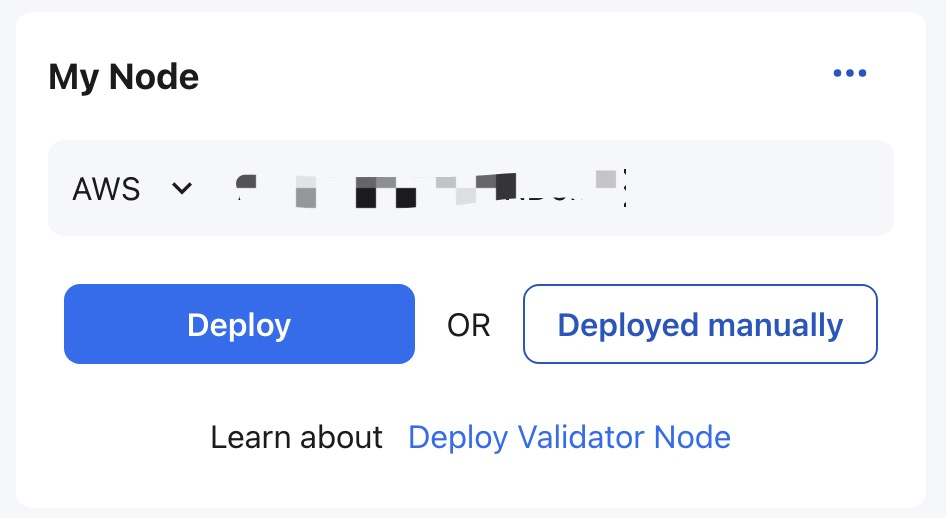
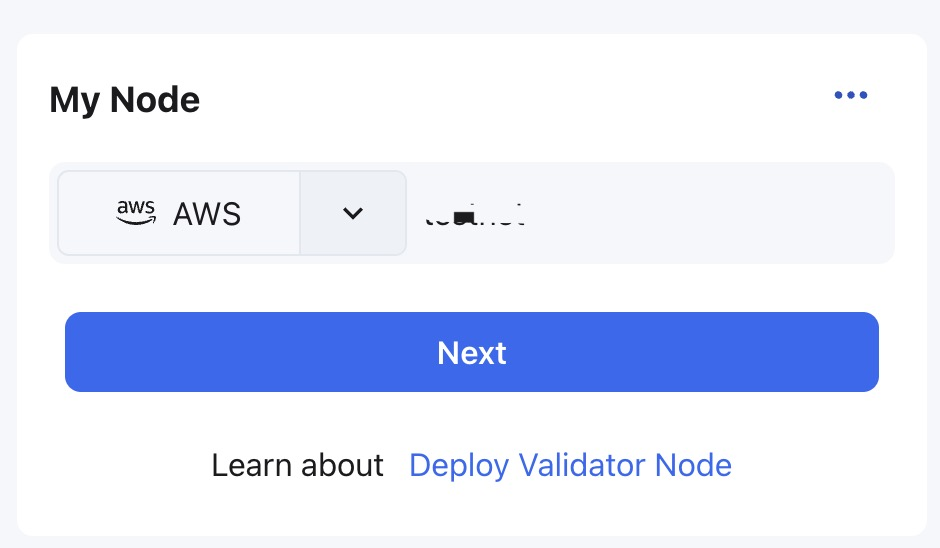
support GCP

diff --git a/src/maintain/validator-deploy-gcp.md b/src/maintain/validator-deploy-gcp.md
@@ -1,0 +1,48 @@
+## Automatic deployment with GCP
+
+### Before you begin
+
+1. [Create a Google Account](https://support.google.com/accounts/answer/27441?hl=en)
+2. [Create a Google Cloud project](https://cloud.google.com/resource-manager/docs/creating-managing-projects).
+3. [Create a Billing account](https://cloud.google.com/billing/docs/how-to/manage-billing-account) and [enable billing for the Cloud project](https://cloud.google.com/billing/docs/how-to/modify-project).
+4. [Enable the Compute Engine API](https://console.cloud.google.com/apis/api/compute.googleapis.com/overview).
+
+### Deploy
+
+Log in to the Octopus Network [mainnet](https://mainnet.oct.network) with the NEAR account created in [Generate Validator Account](./validator-generate-keys.md).
+
+![validator login](../images/maintain/validator_login.jpg)
+
+Click the `Appchains` and select the appchain which would like to be a validator, click it to open the appchain page, then perform the following operations:
+
+1. In the **My Node** area of the appchain page, select `GCP` and login with your `Google Account`, 
+
+![gcp login](../images/maintain/validator_gcp_login.jpg)
+
+After login, click `Next` and select the Octopus Network can access and click `Continue`;
+
+![gcp access](../images/maintain/validator_gcp_access.jpg)
+
+2. The deployed GCP instance configuration information and approximate cost will be displayed in the **My Node** region. After confirmation, select the project and select the deployment area of the instance in the `Deploy region` drop-down box, then click `Confirm`;
+
+![gcp confirm](../images/maintain/validator_gcp_confirm.jpg)
+
+3. In the **My Node** area, the node status is `Applying` which means the automatic deployment service is deploying the node.
+
+![validator applying](../images/maintain/validator_gcp_applying.jpg)
+
+Please wait for about 3~5 minutes, the node status will change to `Syncing` which means the validator node is synchronizing the block data of the appchain. The earlier the appchain is online, the longer the node synchronization time will be. please wait patiently.
+
+![validator syncing](../images/maintain/validator_gcp_syncing.jpg)
+
+To check the synchronization of nodes, please refer to [Monitor Node](./monitor-node.md).
+
+After the node synchronization, the status in the **My Node** area will change to `Running`.
+
+![validator running](../images/maintain/validator_gcp_running.jpg)
+
+For the automatically deployed validator node, in the **My Node** area, the validator can click the icon on the right of the `Instance Status` field to check the instance status information (such as CPU, hard disk, memory) of the running validator node instance.
+
+![validator instance status](../images/maintain/validator_instance_status.jpg)
+
+At the `Running` status, the validator can proceed to the next step [register validator](./validator-register.md).

diff --git a/src/cn/maintain/validator-register.md b/src/cn/maintain/validator-register.md
@@ -18,27 +18,35 @@
 
 注册成功后，请等待大约1～2分钟，验证人的应用链账户中会收到 1 个应用链的代币，用于进行下一步的操作。
 
-### 设置 Session Key
+### 设置 Session Key - 自动部署验证节点
 
 **注意**，确保验证节点已完成链数据的同步，并且验证人的应用链账户中已收到应用链的代币。
 
-在应用链页面 **My Node** 区域，点击`···`，选择`Set Session Key`，在弹出页面中，选择上一步注册中填写的应用链账户，使用自动部署服务，验证人只需点击`Set`。
+使用自动部署验证节点服务，验证人只需在应用链页面 **My Node** 区域，点击`···`，选择`Set Session Key`，在弹出页面中，选择上一步注册中填写的应用链账户，点击`Set`。
 
 ![validator set sessionkey](../../images/maintain/validator_set_sessionkey.jpg)
 
 ![validator set sessionkey](../../images/maintain/validator_set_sessionkey2.jpg)
 
-手动部署，验证人需要在`Session key`输入框中输入`author_rotateKeys`操作中输出的`result`字段的内容；
+### 设置 Session Key - 手动部署验证节点
 
-![validator set sessionkey](../../images/maintain/validator_set_sessionkey1.jpg)
+对于手动部署的验证节点，验证人需要通过 PolkadotJS APPS RPC 提交 `setKeys` 交易来设置会话密钥。
 
-![validator set sessionkey](../../images/maintain/validator_set_sessionkey3.jpg)
+将 [PolkadotJS-Apps](https://polkadot.js.org/apps/#/explorer) 链接到应用链网关节点，配置 Apps 的`自定义终端`，应用链的 RPC Endpoit 可以从该应用链在章鱼网络[主网](https://mainnet.oct.network)页面获得。
+
+![RPC Endpoit](../../images/maintain/appchain_rpc.jpg)
+
+确保已连接到应用链后，导航到`开发者`选项，选择“交易”，然后选择在`注册验证人`步骤中填写的应用链帐户，并选择`session > setKeys(keys, proof)`选项，并将[生成 Session Key](./validator-set-session-keys)步骤的`result`字段内容作为`keys`输入，将`0x0`作为`proof`输入，最后提交交易。
+
+![验证器设置会话密钥](../../images/maintain/validator_session_setkeys.jpg)
 
 设置成功后，并且验证节点正常运行，等待一个奖励周期大约 1 天，它将会进入新一轮的验证人集合中。
 
 #### 检查 Session key
 
 可以通过 PolkadotJS-Apps 检查会话密钥是否设置正确，配置 Apps 的`自定义终端`，应用链的 RPC Endpoit 可以从该应用链在章鱼网络[主网](https://mainnet.oct.network)页面获得。
+
+![RPC Endpoit](../../images/maintain/appchain_rpc.jpg)
 
 连接到应用链后导航到`开发者`选项，选择`链状态`，选择`session > nextKeys(AccountId32)`选项，选择验证节点使用的验证人账户，点击`+`。
 

diff --git a/src/cn/maintain/validator-deploy-gcp.md b/src/cn/maintain/validator-deploy-gcp.md
@@ -1,0 +1,48 @@
+## 使用 GCP 自动部署验证节点
+
+### 开始之前
+
+1. [创建 Google 帐号](https://support.google.com/accounts/answer/27441?hl=zh-Hans)
+2. [创建项目](https://cloud.google.com/resource-manager/docs/creating-managing-projects)
+3. [创建 Cloud 结算帐号](https://cloud.google.com/billing/docs/how-to/manage-billing-account)并[为项目启动结算功能](https://cloud.google.com/billing/docs/how-to/modify-project)
+4. [启用 Compute Engine API](https://console.cloud.google.com/apis/api/compute.googleapis.com/overview)
+
+### 部署
+
+验证人用[生成验证人帐户](./validator-generate-keys.md)中创建的 NEAR 账户访问并登录章鱼网络[主网](https://mainnet.oct.network)。
+
+![validator login](../../images/maintain/validator_login.jpg)
+
+然后点击`Appchains`选项，在应用链列表中，选择要成为验证人的应用链，点击进入应用链页面，进行以下操作：
+
+1. 在应用链页面 **My Node** 区域，选择 `GCP` 并使用 Google 帐号登录；
+
+![gcp login](../../images/maintain/validator_gcp_login.jpg)
+
+登录后，点击`Next`，勾选以下允许Octopus Network可以访问，然后点击`Continue`；
+
+![gcp access](../../images/maintain/validator_gcp_access.jpg)
+
+2. 在 **My Node** 区域会显示自动部署的实例配置信息和大致成本，确认后选择你的`Project`，并在`Deploy region`下拉框选择实例部署的区域，点击`Confirm`；
+
+![gcp confirm](../../images/maintain/validator_gcp_confirm.jpg)
+
+3. 在 **My Node** 区域节点状态为`Applying`，此时是自动部署服务在部署节点。
+
+![validator applying](../../images/maintain/validator_gcp_applying.jpg)
+
+请等待大约3~5分钟，节点状态会变为`Syncing`，此时是验证节点在同步应用链的区块数据，越早上线的应用链，节点同步用的时间会越长。请耐心等待。
+
+![validator syncing](../../images/maintain/validator_gcp_syncing.jpg)
+
+如需了解节点的同步情况，可参考[监控节点](./monitor-node.md)。
+
+等待节点同步完成后，在 **My Node** 区域节点状态会变为`Running`。
+
+![validator running](../../images/maintain/validator_gcp_running.jpg)
+
+自动部署的验证节点，可以在 **My Node** 区域，点击`Instance Status`最右侧的图标，可以查看运行验证节点实例的硬件状态信息（比如CPU、硬盘、内存）。
+
+![validator instance status](../../images/maintain/validator_instance_status.jpg)
+
+节点状态为`Running`时，可进行下一步操作[注册验证人](./validator-register.md)。

diff --git a/src/maintain/validator-deploy.md b/src/maintain/validator-deploy.md
@@ -4,6 +4,7 @@ In order to simplify the deployment of the validator node, the Octopus Network t
 
 * [AWS](./validator-deploy-aws.md)
 * [Digital Ocean](./validator-deploy-do.md)
+* [GCP](./validator-deploy-gcp.md)
 
 Also, the validator can choose to [manually deploy the validator node](./validator-deploy-manually.md).
 
@@ -15,12 +16,12 @@ The configuration and approximate cost of each Appchain validator node which is 
 
 | Appchain | EC2 Instance Type  | Storage | Data Transfer | Estimated monthly cost |
 |------|------|------|------|------|
-| debionetwork | t3.small<br/>2 GB Memory / 2 vCPUs | 120 GB | 100 GB | $45 |
-| myriad | t3.small<br/>2 GB Memory / 2 vCPUs | 120 GB | 100 GB | $45 |
-| deip | t3.small<br/>2 GB Memory / 2 vCPUs | 120 GB | 100 GB | $45 |
-| atocha | t3.small<br/>2 GB Memory / 2 vCPUs | 120 GB | 100 GB | $45 |
+| debionetwork | c5.large<br/>4 GB Memory / 2 vCPUs | 120 GB | 100 GB | $93 |
+| myriad | c5.large<br/>4 GB Memory / 2 vCPUs | 120 GB | 100 GB | $93 |
+| deip | c5.large<br/>4 GB Memory / 2 vCPUs | 120 GB | 100 GB | $93 |
+| atocha | c5.large<br/>4 GB Memory / 2 vCPUs | 120 GB | 100 GB | $93 |
 | fusotao | c5.large<br/>4 GB Memory / 2 vCPUs | 250 GB | 4500 GB | $509 |
-| discovol | t3.small<br/>2 GB Memory / 2 vCPUs | 120 GB | 100 GB | $45 |
+| discovol | c5.large<br/>4 GB Memory / 2 vCPUs | 120 GB | 100 GB | $93 |
 
 
 **Digital Ocean**
@@ -33,6 +34,17 @@ The configuration and approximate cost of each Appchain validator node which is 
 | atocha | 8 GB Memory / 4 vCPUs | 120 GB | 5 TB | $60 |
 | fusotao | 8 GB Memory / 4 vCPUs  | 250 GB | 7 TB | $93 |
 | discovol | 8 GB Memory / 4 vCPUs | 120 GB | 5 TB | $60 |
+
+**GCP**
+
+| Appchain | VM instance  | Storage | Data Transfer | Estimated monthly cost |
+|------|------|------|------|------|
+| debionetwork | e2-standard-2<br/>8 GB Memory / 2 vCPUs | 120 GB | 100 GB | $82 |
+| myriad | e2-standard-2<br/>8 GB Memory / 2 vCPUs | 120 GB | 100 GB | $82 |
+| deip | e2-standard-2<br/>8 GB Memory / 2 vCPUs | 120 GB | 100 GB | $82 |
+| atocha | e2-standard-2<br/>8 GB Memory / 2 vCPUs | 120 GB | 100 GB | $82 |
+| fusotao | e2-standard-2<br/>8 GB Memory / 2 vCPUs  | 250 GB | 4500 GB | $588 |
+| discovol | e2-standard-2<br/>8 GB Memory / 2 vCPUs | 120 GB | 100 GB | $82 |
 
 ### Change VPS provider
 

diff --git a/src/maintain/validator-register.md b/src/maintain/validator-register.md
@@ -30,11 +30,17 @@ For the automatically deployed validator, click `Set`.
 
 ![validator set sessionkey](../images/maintain/validator_set_sessionkey2.jpg)
 
-For the manually deployed validator, please input the content of the `result` field output in the `author_rotateKeys` operation into the `Session key` input box;
+### Set Session Key - manual deployment
 
-![validator set sessionkey](../images/maintain/validator_set_sessionkey1.jpg)
+For the manually deployed validator, you can set the Session keys by submitting the `setKeys` transaction via the PolkadotJS-APPS RPC. 
 
-![validator set sessionkey](../images/maintain/validator_set_sessionkey3.jpg)
+Attach the [PolkadotJS-Apps explorer](https://polkadot.js.org/apps/#/explorer) to the appchain gateway node, the validator can configure the `custom endpoint` with the appchain RPC Endpoit in the `Settings` tab.
+
+![RPC Endpoit](../images/maintain/appchain_rpc.jpg)
+
+Once ensuring that you have connected to appchain RPC endpoit, navigate to `Developer` tab and select `Extrinsics` then select the appchain account which you filled in the Register validator step, and select the `session > setKeys(keys, proof)`, input the content of the `result` field that you get from the [Generate Session Keys](./validator-set-session-keys) step as `keys`, input `0x0` as `proof`, finally, submit the transaction.
+
+![validator set sessionkey](../images/maintain/validator_session_setkeys.jpg)
 
 The validator will be added into the next round of validator sets after waiting for a reward cycle (~1 day).
 

diff --git a/src/maintain/validator-deploy-do.md b/src/maintain/validator-deploy-do.md
@@ -14,7 +14,7 @@ Log in to the Octopus Network [mainnet](https://mainnet.oct.network) with the NE
 
 Click the `Appchains` and select the appchain which would like to be a validator, click it to open the appchain page, then perform the following operations:
 
-1. In the **My Node** area of the appchain page, input your `Token Name` in the `Digital Ocean Token Name` input box, then click `Deploy`;
+1. In the **My Node** area of the appchain page, select `DO` and input your `Token Name` in the `Digital Ocean Token Name` input box, then click `Next`;
 
 ![do token name](../images/maintain/validator_do_tokenname.jpg)
 
@@ -38,6 +38,8 @@ After the node synchronization, the status in the **My Node** area will change t
 
 ![validator running](../images/maintain/validator_do_running.jpg)
 
-For the automatically deployed validator node, the validator can click `...` in the **My Node** area, and select `Instance Info` to check the hardware status information (such as CPU, hard disk, memory) of the running validator node instance.
+For the automatically deployed validator node, in the **My Node** area, the validator can click the icon on the right of the `Instance Status` field to check the instance status information (such as CPU, hard disk, memory) of the running validator node instance.
+
+![validator instance status](../images/maintain/validator_instance_status.jpg)
 
 At the `Running` status, the validator can proceed to the next step [register validator](./validator-register.md).

diff --git a/src/maintain/validator-deploy-aws.md b/src/maintain/validator-deploy-aws.md
@@ -10,7 +10,7 @@ Log in to the Octopus Network [mainnet](https://mainnet.oct.network) with the NE
 
 Click the `Appchains` and select the appchain which would like to be a validator, click it to open the appchain page, then perform the following operations:
 
-1. In the **My Node** area of the appchain page, input your `AWS Access Key` in the `Access Key` input box, then click `Deploy`;
+1. In the **My Node** area of the appchain page, select `AWS` and input your `AWS Access Key` in the `Access Key` input box, then click `Next`;
 
 ![aws access key](../images/maintain/validator_aws_accesskey.jpg)
 
@@ -34,7 +34,9 @@ After the node synchronization, the status in the **My Node** area will change t
 
 ![validator running](../images/maintain/validator_aws_running.jpg)
 
-For the automatically deployed validator node, the validator can click `...` in the **My Node** area, and select `Instance Info` to check the hardware status information (such as CPU, hard disk, memory) of the running validator node instance.
+For the automatically deployed validator node, in the **My Node** area, the validator can click the icon on the right of the `Instance Status` field to check the instance status information (such as CPU, hard disk, memory) of the running validator node instance.
+
+![validator instance status](../images/maintain/validator_instance_status.jpg)
 
 At the `Running` status, the validator can proceed to the next step [register validator](./validator-register.md).
 

diff --git a/src/cn/maintain/validator-deploy-aws.md b/src/cn/maintain/validator-deploy-aws.md
@@ -10,7 +10,7 @@
 
 然后点击`Appchains`选项，在应用链列表中，选择要成为验证人的应用链，点击进入应用链页面，进行以下操作：
 
-1. 在应用链页面 **My Node** 区域，选择 `AWS` 并在`Access Key`输入框输入你的`AWS Access Key`，点击`Deploy`；
+1. 在应用链页面 **My Node** 区域，选择 `AWS` 并在`Access Key`输入框输入你的`AWS Access Key`，点击`Next`；
 
 ![aws access key](../../images/maintain/validator_aws_accesskey.jpg)
 
@@ -34,7 +34,9 @@
 
 ![validator running](../../images/maintain/validator_aws_running.jpg)
 
-自动部署的验证节点，可以在 **My Node** 区域，点击`···`，选择`Instance Info`可以查看运行验证节点实例的硬件状态信息（比如CPU、硬盘、内存）。
+自动部署的验证节点，可以在 **My Node** 区域，点击`Instance Status`最右侧的图标，可以查看运行验证节点实例的硬件状态信息（比如CPU、硬盘、内存）。
+
+![validator instance status](../../images/maintain/validator_instance_status.jpg)
 
 节点状态为`Running`时，可进行下一步操作[注册验证人](./validator-register.md)。
 

diff --git a/src/cn/maintain/validator-deploy-do.md b/src/cn/maintain/validator-deploy-do.md
@@ -14,7 +14,7 @@
 
 然后点击`Appchains`选项，在应用链列表中，选择要成为验证人的应用链，点击进入应用链页面，进行以下操作：
 
-1. 在应用链页面 **My Node** 区域，选择 `DO` 并输入`Digital Ocean Token Name`，点击`Deploy`；
+1. 在应用链页面 **My Node** 区域，选择 `DO` 并输入`Digital Ocean Token Name`，点击`Next`；
 
 ![do token name](../../images/maintain/validator_do_tokenname.jpg)
 
@@ -38,6 +38,8 @@
 
 ![validator running](../../images/maintain/validator_do_running.jpg)
 
-自动部署的验证节点，可以在 **My Node** 区域，点击`···`，选择`Instance Info`可以查看运行验证节点实例的硬件状态信息（比如CPU、硬盘、内存）。
+自动部署的验证节点，可以在 **My Node** 区域，点击`Instance Status`最右侧的图标，可以查看运行验证节点实例的硬件状态信息（比如CPU、硬盘、内存）。
+
+![validator instance status](../../images/maintain/validator_instance_status.jpg)
 
 节点状态为`Running`时，可进行下一步操作[注册验证人](./validator-register.md)。

diff --git a/src/cn/maintain/validator-deploy.md b/src/cn/maintain/validator-deploy.md
@@ -4,6 +4,7 @@
 
 * [AWS](./validator-deploy-aws.md)
 * [Digital Ocean](./validator-deploy-do.md)
+* [GCP](./validator-deploy-gcp.md)
 
 验证人也可以选择[手动部署验证节点](./validator-deploy-manually.md)。手动部署验证节点，可以参考自动部署使用的硬件配置。
 
@@ -32,6 +33,17 @@
 | atocha | 8 GB Memory / 4 vCPUs | 120 GB | 5 TB | $60 |
 | fusotao | 8 GB Memory / 4 vCPUs  | 250 GB | 7 TB | $93 |
 | discovol | 8 GB Memory / 4 vCPUs | 120 GB | 5 TB | $60 |
+
+**GCP**
+
+| 应用链 | 实例类型  | 存储 | 数据传输 | 每月预估费用 |
+|------|------|------|------|------|
+| debionetwork | e2-standard-2<br/>8 GB Memory / 2 vCPUs | 120 GB | 100 GB | $82 |
+| myriad | e2-standard-2<br/>8 GB Memory / 2 vCPUs | 120 GB | 100 GB | $82 |
+| deip | e2-standard-2<br/>8 GB Memory / 2 vCPUs | 120 GB | 100 GB | $82 |
+| atocha | e2-standard-2<br/>8 GB Memory / 2 vCPUs | 120 GB | 100 GB | $82 |
+| fusotao | e2-standard-2<br/>8 GB Memory / 2 vCPUs  | 250 GB | 4500 GB | $588 |
+| discovol | e2-standard-2<br/>8 GB Memory / 2 vCPUs | 120 GB | 100 GB | $82 |
 
 ### 更换 VPS 服务商
 
